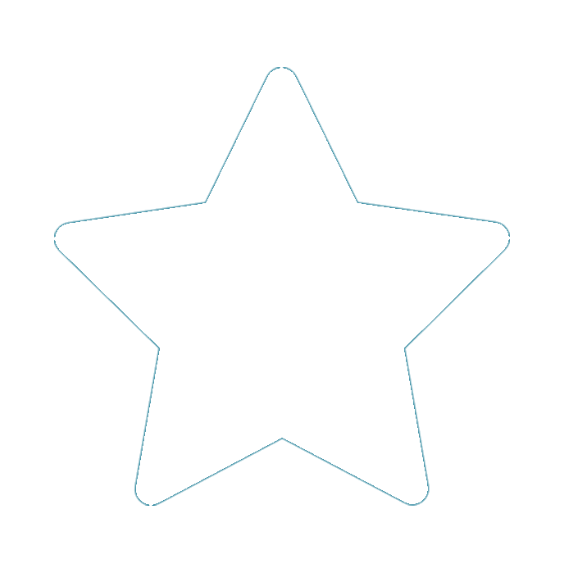
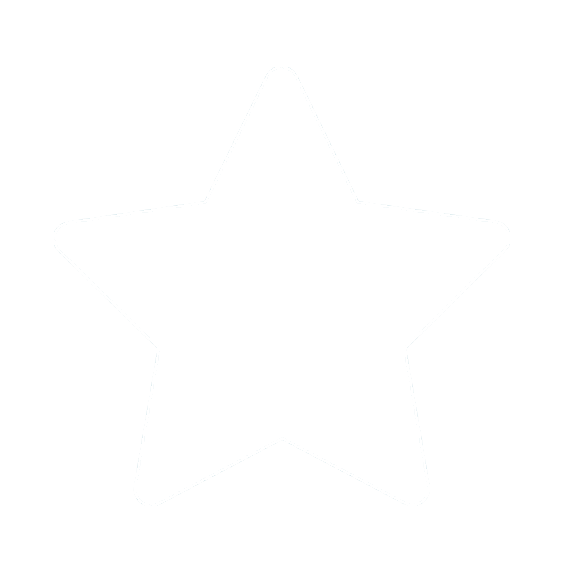
Clipart images for CV

diff --git a/client/components/CV.jsx b/client/components/CV.jsx
@@ -12,8 +12,7 @@ export default (props) => {
 
       <div className='columns'>
         <div className='three-column'>
-          <div className='purple-block'></div>
-          {/* <img className="col-figure image is-128x128" data-aos="zoom-in" data-aos-duration="600" data-aos-delay="200 col-img" src="../images/experience.png" /> */}
+          <img className='col-img data-aos="zoom-in" data-aos-duration="600" data-aos-delay="200"' src="../images/experience.png" />
           <h3 className='subject-title'>Experience</h3>
           <p className="cv-text"><strong>Digital Marketing Specialist</strong>
           <br/>UJA Federation of Greater Toronto, January 2017 – July 2017</p>
@@ -24,8 +23,7 @@ export default (props) => {
         </div>
 
         <div className='three-column'>
-          <div className='purple-block'></div>
-          {/* <img className='col-figure image is-128x128" data-aos="zoom-in" data-aos-duration="600" data-aos-delay="200" col-img' src="../images/education.png" /> */}
+          <img className='col-img data-aos="zoom-in" data-aos-duration="600" data-aos-delay="200"' src="../images/education.png" />
           <h3 className='subject-title'>Education</h3>
           <p className="cv-text"><strong>Full-Stack Web Development</strong><br />Enspiral Dev Academy, Wellington, NZ, 2018</p>
           <p className="cv-text"><strong>Specialization: Interaction Design</strong><br />University of California, San Diego <em>(In progress)</em></p>
@@ -35,8 +33,7 @@ export default (props) => {
         </div>
 
         <div className='three-column'>
-          <div className='purple-block'></div>
-          {/* <img className='col-figure image is-128x128" data-aos="zoom-in" data-aos-duration="600" data-aos-delay="200" col-img' src="../images/awards.png" /> */}
+          <img className='col-img data-aos="zoom-in" data-aos-duration="600" data-aos-delay="200"' src="../images/awards.png" />
           <h3 className='subject-title'>Awards</h3>
           <p className="cv-text"><strong><a href='http://yourreview.journals.yorku.ca/index.php/yourreview/article/view/40307'>Published Academic Article</a></strong><br />York Online Undergraduate Research Review (YOUR Review 2014)
           <br /><em><a href='http://yourreview.journals.yorku.ca/index.php/yourreview/article/view/40307'>Read "Claws of Catharsis: The Food Narrative of Lobster Eating"</a></em></p>
